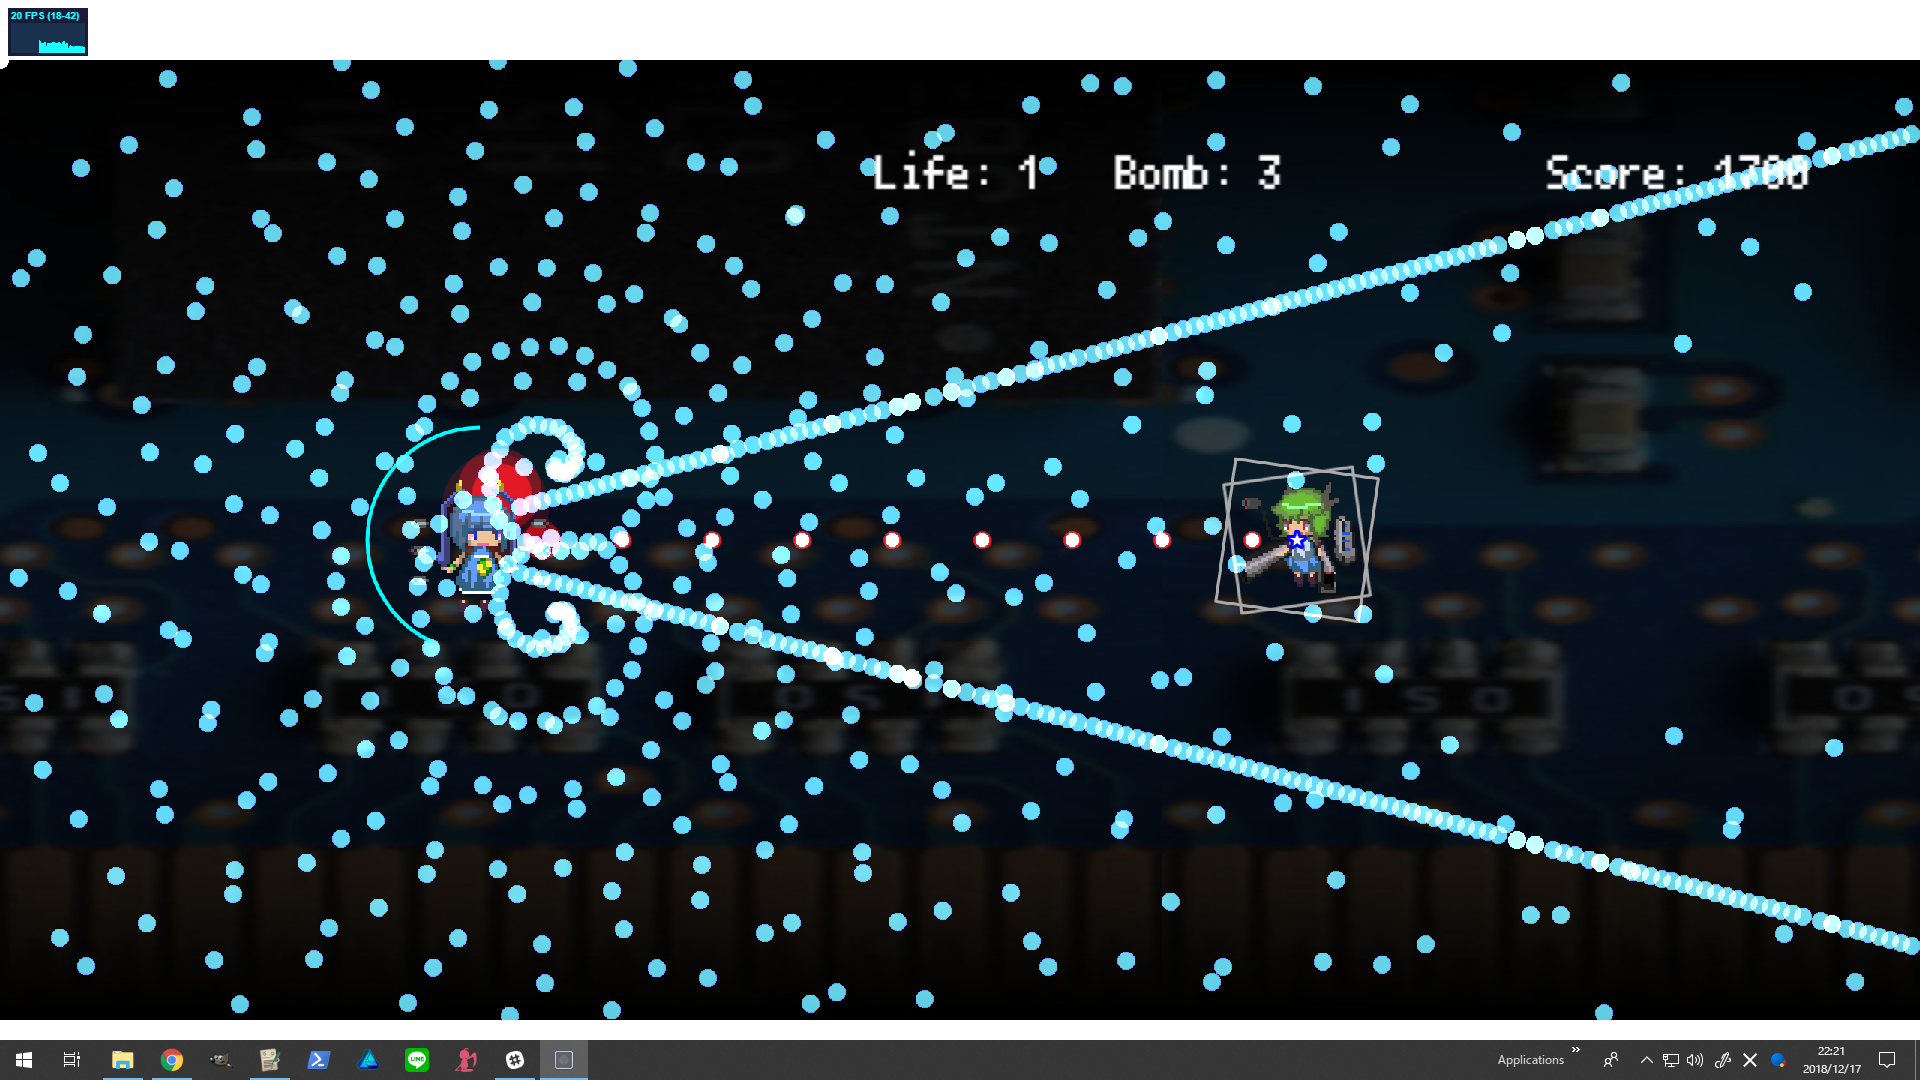
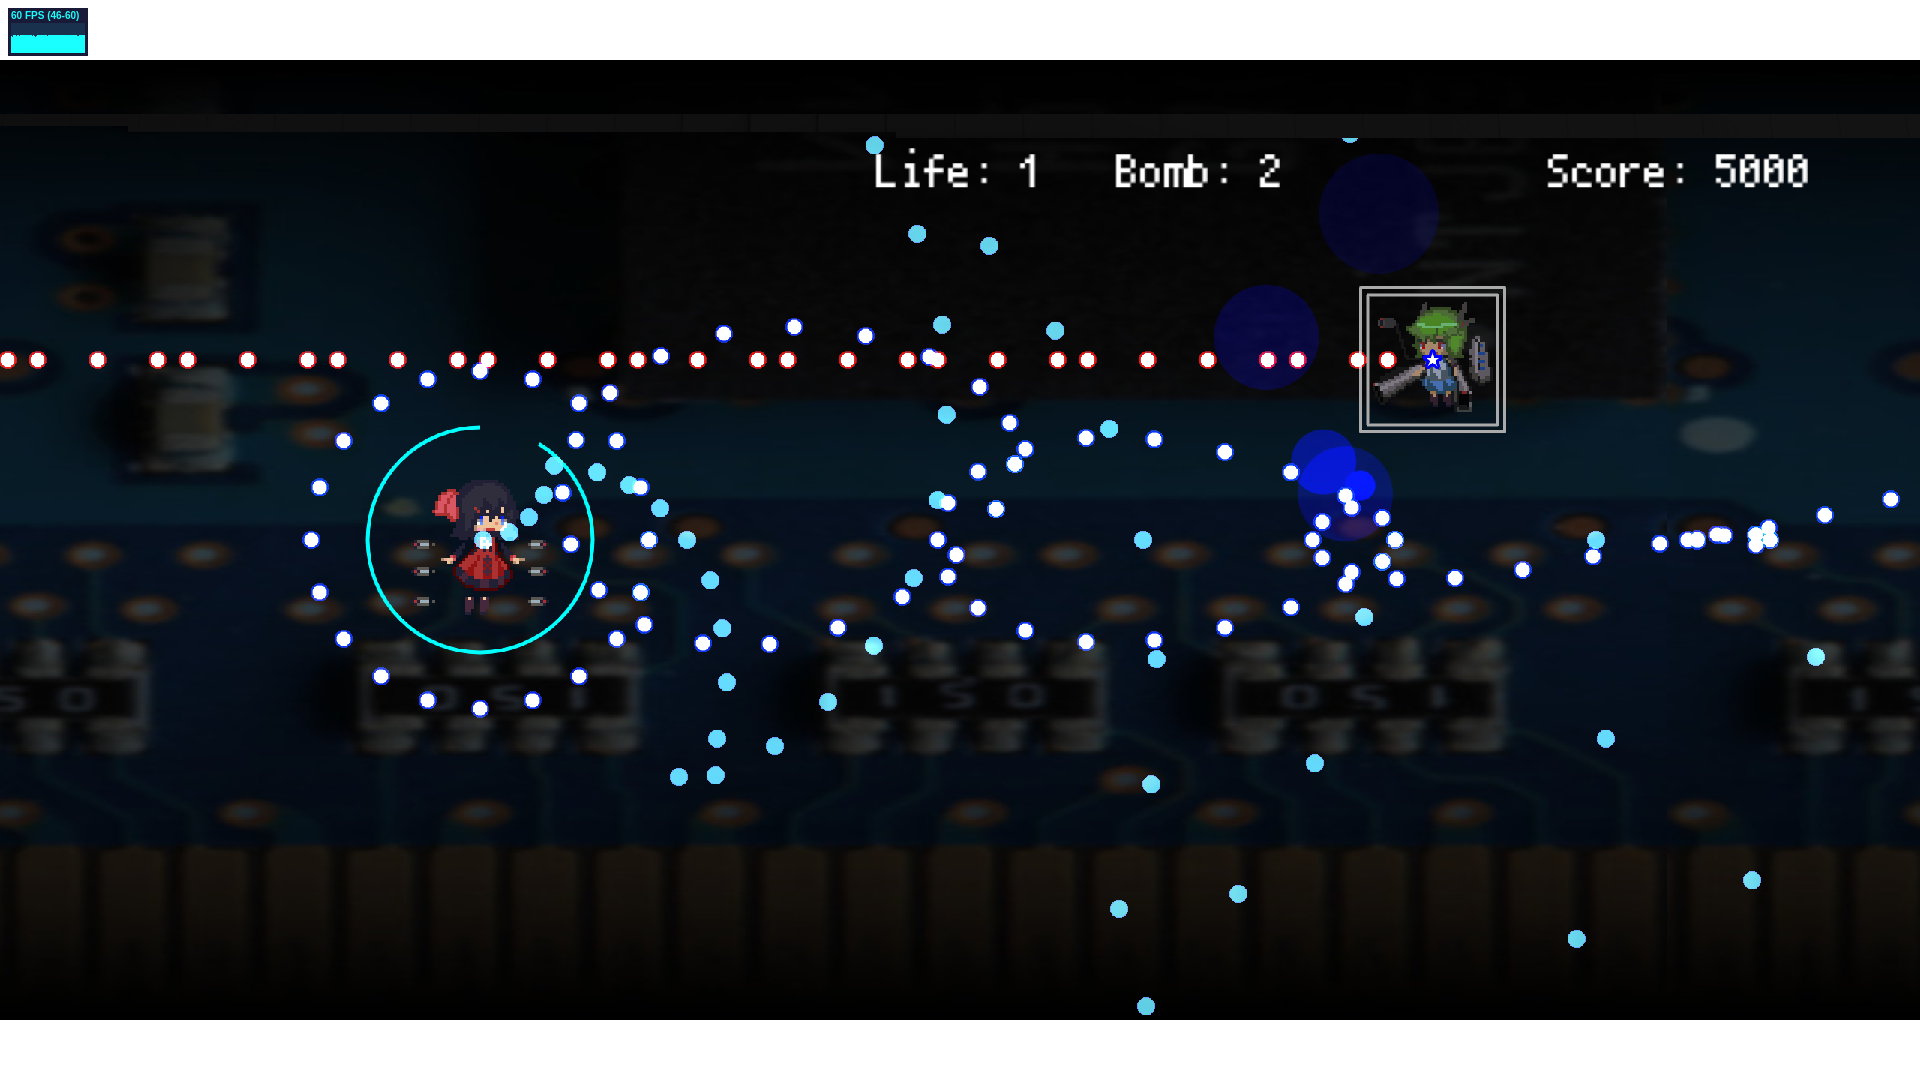
shooting-x 更新

diff --git a/_includes/side.html b/_includes/side.html
@@ -11,6 +11,10 @@
 <p class="menu"></p>
 </nav>
 
+<a class="banner" href="{{ page.relative }}game/shx/">
+<img alt="shooting-x" src="{{ page.relative }}game/shx/banner.png">
+</a>
+
 <a class="banner" href="{{ page.relative }}game/teisatuki/">
 <img alt="偵察機の災難" src="{{ page.relative }}game/teisatuki/banner.png">
 </a>
@@ -21,10 +25,6 @@
 
 <a class="banner" href="{{ page.relative }}game/toj/">
 <img alt="ToJ" src="{{ page.relative }}game/toj/banner.png">
-</a>
-
-<a class="banner" href="{{ page.relative }}game/shx/">
-<img alt="shooting-x" src="{{ page.relative }}game/shx/banner.png">
 </a>
 
 <a class="banner" href="{{ page.relative }}game/atower/">

diff --git a/game/shx/index.md b/game/shx/index.md
@@ -41,6 +41,14 @@ shooting-x
 <img alt="スクリーンショット" src="./ss4.png">
 </p>
 
+<p>
+<img alt="スクリーンショット" src="./ss5.png">
+</p>
+
+<p>
+<img alt="スクリーンショット" src="./ss6.png">
+</p>
+
 <hr>
 <h2>操作方法</h2>
 
@@ -112,26 +120,26 @@ Windows、Linuxでは<a href="./shooting-x_manual.pdf">こちらのpdf</a>のよ
 <h2>動作環境</h2>
 
 <p>
-Windows10、macOS HighSierra、Linux（すべて64bit版）での動作を確認しています。
+Windows10, macOS Catalina, Ubuntu18.04 （すべて64bit版） での動作を確認しています。
 </p>
 
 <hr>
 <h2>ダウンロード</h2>
 
 <p>
-・高専祭2018/アカデミックリンク2018版
+・高専祭2019 版
 </p>
 
 <p>
-<a href="https://box.yahoo.co.jp/guest/viewer?sid=box-l-26oalqoyfj6fl63uanefeuz3se-1001&uniqid=780dfd31-8f93-40c0-bda3-1245e7c5003b&viewtype=detail">Windows版 （最終更新日 2018/12/22) </a>
+<a href="https://box.yahoo.co.jp/guest/viewer?sid=box-l-26oalqoyfj6fl63uanefeuz3se-1001&uniqid=341342ca-bff8-49fa-b302-6bb58eae7fc4&viewtype=detail">Windows版 （最終更新日 2020/1/18) </a>
 </p>
 
 <p>
-<a href="https://box.yahoo.co.jp/guest/viewer?sid=box-l-26oalqoyfj6fl63uanefeuz3se-1001&uniqid=5c60dbc1-b0ac-495a-a8f7-aff01b445d93&viewtype=detail">mac OS版 （最終更新日 2018/12/22) </a>
+<a href="https://box.yahoo.co.jp/guest/viewer?sid=box-l-26oalqoyfj6fl63uanefeuz3se-1001&uniqid=3544eab5-ab9f-4025-98af-a0ee219628a8&viewtype=detail">mac OS版 （最終更新日 2020/1/18) </a>
 </p>
 
 <p>
-<a href="https://box.yahoo.co.jp/guest/viewer?sid=box-l-26oalqoyfj6fl63uanefeuz3se-1001&uniqid=749b9bd9-97f7-4fd5-af64-080b052c8d6b&viewtype=detail">Linux版 （最終更新日 2018/12/22) </a>
+<a href="https://box.yahoo.co.jp/guest/viewer?sid=box-l-26oalqoyfj6fl63uanefeuz3se-1001&uniqid=b496da7f-2717-4fc8-923f-5e463175e6a5&viewtype=detail">Linux版 （最終更新日 2020/1/18) </a>
 </p>
 
 <hr>
@@ -145,7 +153,7 @@ Windows10、macOS HighSierra、Linux（すべて64bit版）での動作を確認
 <h2>クレジット、ライセンス</h2>
 
 <p>
-Copyright(C) 2018, 久米田 All Rights Reserved.
+Copyright(C) 2018-2020, 久米田 All Rights Reserved.
 <br>
 ライセンス: <a href="../../other/HGPKLv2.html">HGPKL, Version 2</a>
 </p>

diff --git a/index.md b/index.md
@@ -16,6 +16,12 @@ relative: ./
 
 <dl>
 
+<dt>2020/1/18</dt>
+<dd>
+<a href="./game/shx/">shooting-x</a> (2019年度高専祭バージョン) を公開しました。
+</dd>
+
+
 <dt>2019/12/29</dt>
 <dd>
 TOP画像を変更しました。
